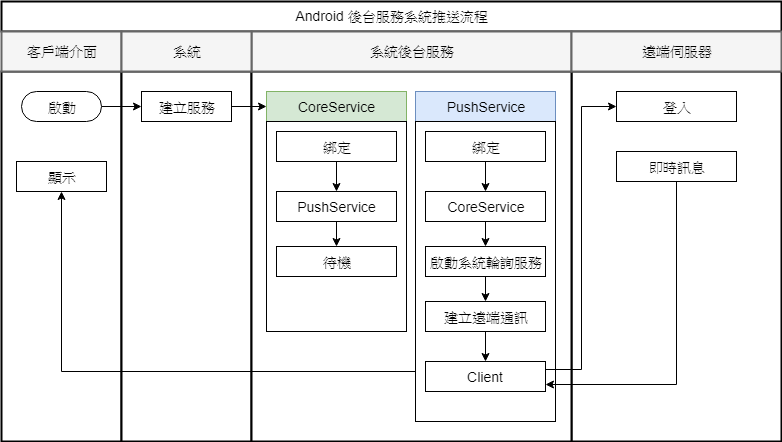
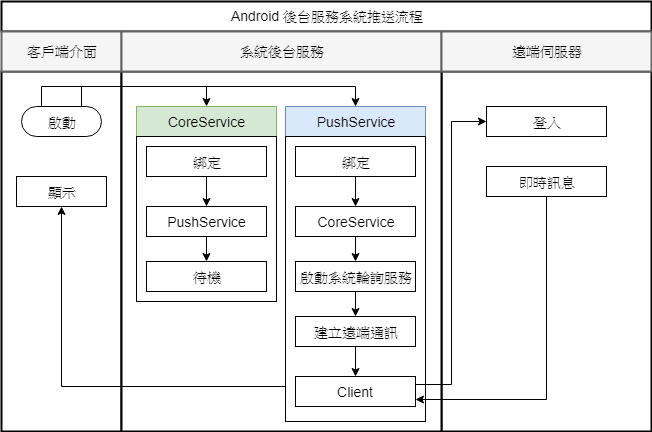
Add files via upload

diff --git a/README.md b/README.md
@@ -1,4 +1,12 @@
 # android 及時推送服務
 
 * Android 後台服務流程圖
+    * 圖中說明使用android service元件做為移動端與遠端建立通訊接收遠端消息流程。
 ![](android_backend_push_msg_service.png)
+* 圖分為三個部分
+    * 客戶端介面
+        * 推送服務經由客戶端介面啟動,顯示遠端推送訊息。
+    * 系統後端服務
+        * 常駐兩個系統服務CoreService,PushService兩個互相綁定,當其中一方退出,由存活的另一方將重新啟動退出的服務。
+    * 遠端伺服器
+        * 移動端即時訊息來源
